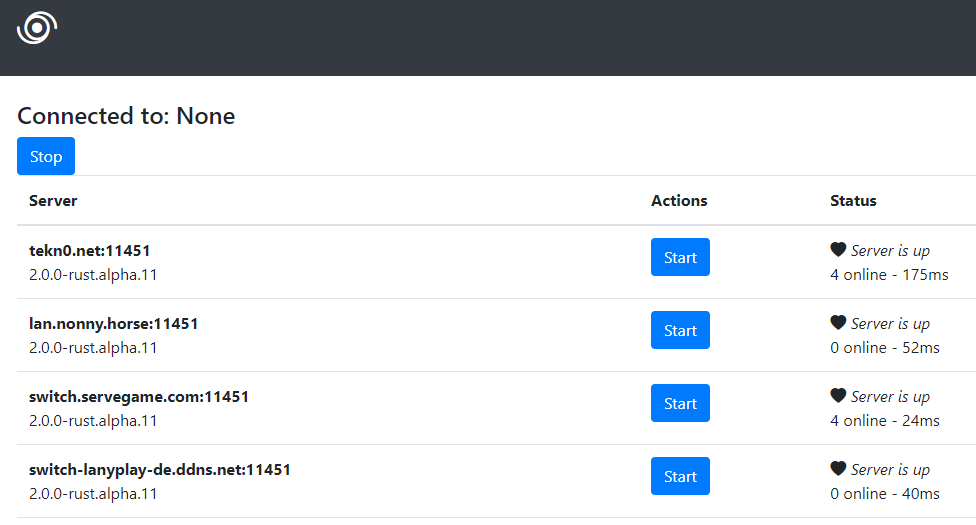
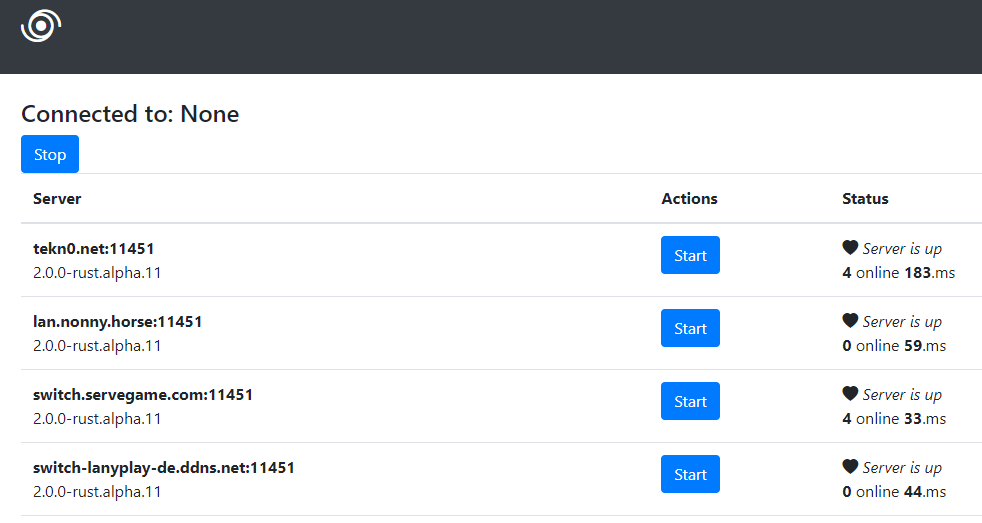
UI4

diff --git a/templates/index.html b/templates/index.html
@@ -26,7 +26,7 @@
                 <td>
                     {% if server[2] == true %}
                         <div><i class="bi bi-heart-fill"> Server is up</i></div>
-                        <div>{{ server[3] }} online - {{ server[5] }}ms</div>
+                        <div><b>{{ server[3] }}</b> online <b>{{ server[5] }}</b>_ms</div>
                     {% else %}
                         <div><i class="bi bi-heart-half"> Server is down</i></div>
                     {% endif %}</td>
